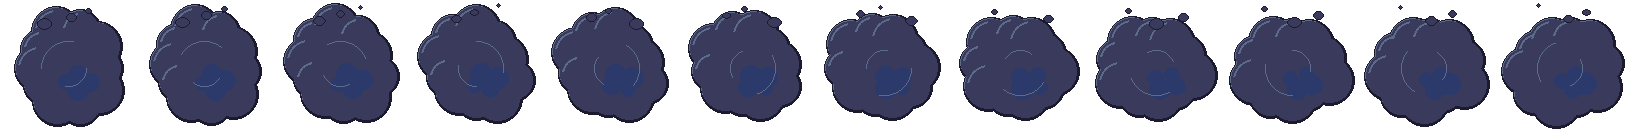
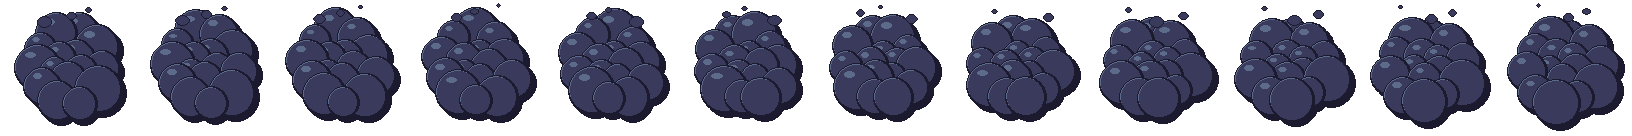
Smoke Bomb drawn like the clone poof, but dark
Overlapping lumps over a darker shadow layer, each outlined where it overlaps; no centre swirl.

Claude-Session: https://claude.ai/code/session_01J8LgTLVYzThXjNSRVhWqep

Changed region(s): [[0.0, 0.0294, 1.0, 0.9706], [0.0, 0.7059, 0.1875, 0.9412], [0.375, 0.0588, 0.4062, 0.0882]]

diff --git a/tools/sprites/generate.py b/tools/sprites/generate.py
@@ -1533,38 +1533,34 @@ BAYER = ((0, 8, 2, 10), (12, 4, 14, 6), (3, 11, 1, 9), (15, 7, 13, 5))
 
 
 def smoke_frame(k: int, size: int = 136) -> Image.Image:
-    """Smoke Bomb cloud: a dark mass with puffs churning around it, light catching their top-left edges, darker
-    billows churning in its lower right, swirl lines turning through it and wisps rising off the top, thinning away.
-    Loops over SMOKE_FRAMES: the outer ring turns two puffs' worth (big and small alternate, so one puff would pop)."""
+    """Smoke Bomb cloud, drawn like the clone poof but dark: lumps spread through the cloud over a darker shadow
+    layer, each its own part drawn back to front (outlined where they overlap, so they read as separate puffs), light
+    catching their tops, wisps rising off the top and thinning away. Loops over SMOKE_FRAMES: the outer ring turns two
+    lumps' worth (big and small alternate, so one would pop), the inner lumps churn the other way, all breathing."""
     c = Canvas(size)
     m = size // 2
     phase = k / SMOKE_FRAMES  # 0..1 round the loop
     turn = math.tau / 10 * 2 * phase
-    puffs = [(m, m, 40)]
+    lumps = []  # spread through the whole cloud: an outer ring and a few inside, all breathing
     for i in range(10):
         ang = math.tau * i / 10 + turn
-        reach = 34 + 6 * math.sin(math.tau * phase + i)
-        puffs.append((m + math.cos(ang) * reach, m + math.sin(ang) * reach, 20 + 4 * (i % 2)))
+        reach = 34 + 4 * math.sin(math.tau * phase + i)
+        lumps.append((m + math.cos(ang) * reach, m + math.sin(ang) * reach,
+                      17 + 4 * (i % 2) + 2 * math.sin(math.tau * phase + i * 1.7)))
+    for i in range(5):
+        ang = math.tau * i / 5 - math.tau / 5 * phase + 0.3
+        lumps.append((m + math.cos(ang) * 14, m + math.sin(ang) * 12, 16 + 2 * math.sin(math.tau * phase + i * 2)))
     blob = lambda pts: lambda dr, f: [dr.ellipse((x - r, y - r, x + r, y + r), f) for x, y, r in pts]
-    c.part(blob(puffs), SHADOW)
-    inner = []  # darker billows churning in its lower right, away from the light
-    for i in range(4):
-        ang = math.tau * i / 4 - math.tau / 4 * phase
-        inner.append((m + 10 + math.cos(ang) * 12, m + 14 + math.sin(ang) * 8, 9 + 2 * math.sin(math.tau * phase + i * 2)))
-    c.flat(blob(inner), NAVY)
-    for x, y, r in puffs[1:]:  # light catching the top-left edge of each puff on that side
-        if x + y < 2 * m - 10:
-            c.flat(lambda dr, f, x=x, y=y, r=r: dr.arc((x - r + 3, y - r + 3, x + r - 3, y + r - 3), 190, 260, f, width=2),
-                   STEEL_D)
-    for j in range(2):  # swirl lines turning through it
-        spin = 360 * phase + 180 * j
-        rr = 18 + 9 * j
-        c.flat(lambda dr, f, spin=spin, rr=rr: dr.arc((m - rr, m - rr, m + rr, m + rr), spin, spin + 100, f, width=1),
-               STEEL_D)
+    sh = 4  # the shadow layer sits down and right of the lumps
+    c.part(blob([(x + sh, y + sh, r) for x, y, r in lumps]), OUTLINE, shade=False)
+    for x, y, r in sorted(lumps, key=lambda p: p[1]):  # back to front: lower lumps overlap the ones behind
+        c.part(E((x - r, y - r, x + r, y + r)), SHADOW)
+        if x + y < 2 * m + 10:  # light catching the tops facing up-left
+            c.flat(E((x - r * 0.55, y - r * 0.7, x - r * 0.1, y - r * 0.45)), STEEL_D)
     for i in range(3):  # wisps rising off the top, shrinking as they go, one after another
         w = (phase + i / 3) % 1.0
         x = m - 24 + 24 * i + 4 * math.sin(math.tau * w)
-        y = m - 44 - 20 * w
+        y = m - 46 - 18 * w
         r = round(6 * (1 - w))
         if r >= 1:
             c.part(E((x - r, y - r * 0.7, x + r, y + r * 0.7)), SHADOW, shade=False)
